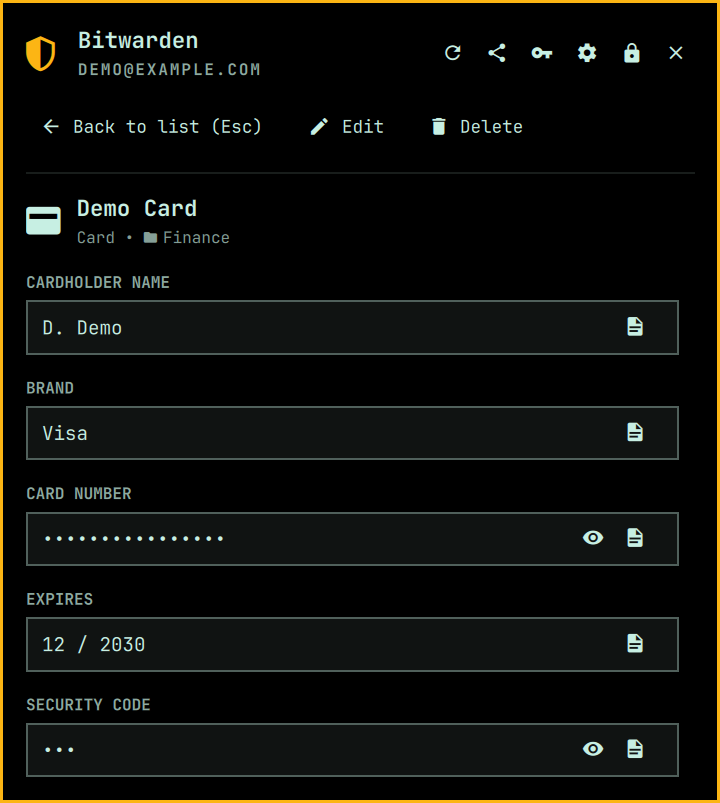
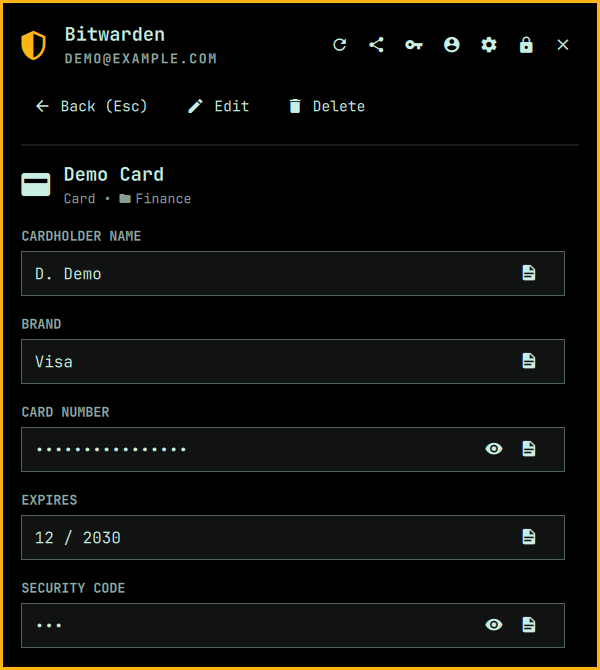
docs: regenerate screenshots and preview for 1.11.0
Every screenshot retaken against the fixture vault: the unlock method row,
Switch Account and Log Out on the locked screen, the one-row approval
decisions, and a new Accounts shot (14-accounts). The approval shot is now
a Git signature, the everyday request, rather than ssh-add's unrecognised
challenge, and is cropped to the centered popup. The preview's callout
reads "NEW IN 1.11 / Multiple Account Support + Security Improvements",
and its columns are regrouped to about the same height.

diff --git a/README.md b/README.md
@@ -368,6 +368,8 @@ The cursor starts on the option already in effect, so <kbd>Enter</kbd> never cha
 
 ### Several accounts
 
+<img src="docs/screenshots/14-accounts.png" width="420" align="right" alt="Account list">
+
 The panel can hold up to ten Bitwarden accounts at once -- a personal and a work account, say, or two servers. Press **Add Account** on the locked screen (or the account button in the header) and sign in; the first account stays signed in beside it. **Switch Account** on the locked screen, or the header's account button, lists them.
 
 - **Each account keeps its own sign-in and its own quick unlock.** A PIN, fingerprint or FIDO2 key set up for one account is that account's; switching never asks you to log in again or set anything up again. The same fingerprint or key can unlock every account -- nothing is re-enrolled, each account's stored password just gets its own way in.
